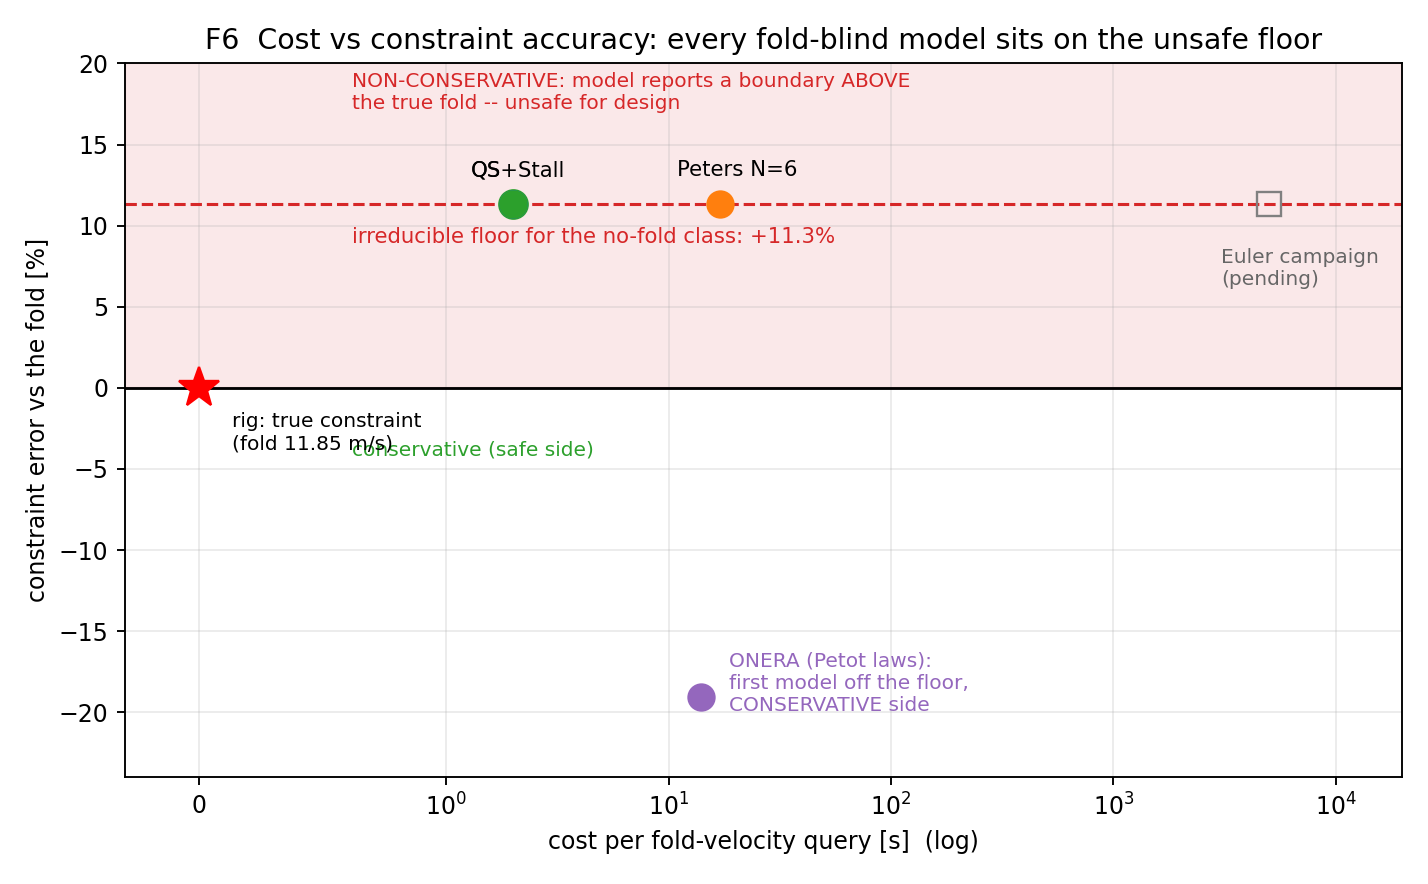
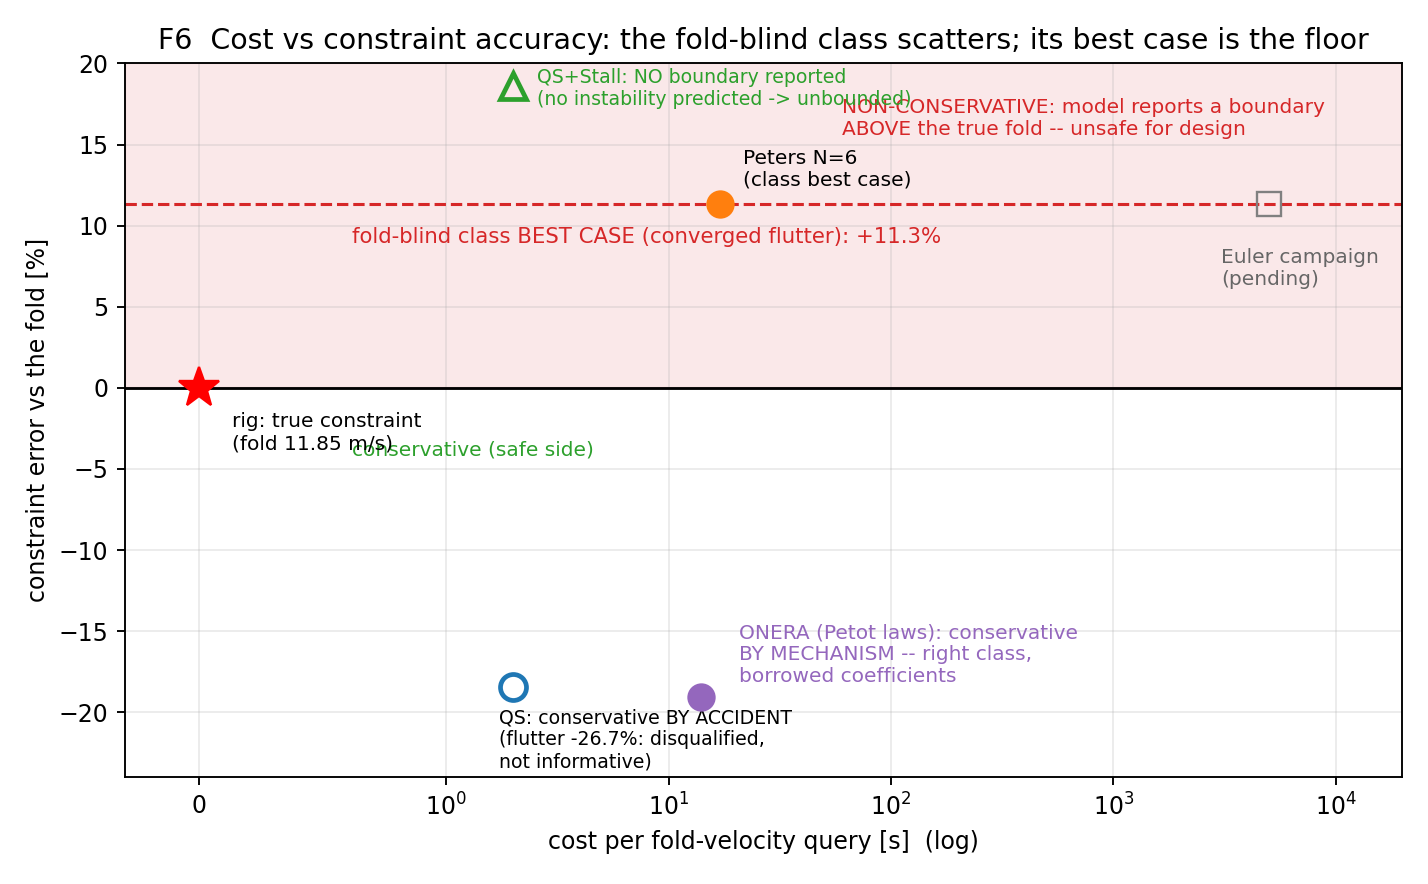
T1 Figures added

diff --git a/examples/build_paper_figures.py b/examples/build_paper_figures.py
@@ -126,7 +126,7 @@ def f5_polar():
 # fold hands the designer its Hopf, hence +10.95% into the unsafe region.
 ROWS = [
     # model, class, U_flutter, fold?, U_fold_reported, cost/query s, executed
-    ("QS", "inviscid-attached", 9.665, False, 13.148, 2.0, True),
+    ("QS", "inviscid-attached", 9.665, False, 9.665, 2.0, True),
     ("Peters N=6", "inviscid-attached", 13.148, False, 13.148, 17.0, True),
     ("QS+Stall", "viscous-static", None, False, None, 2.0, True),
     ("ONERA (Petot laws)", "viscous-dynamic", 10.875, True, 9.594, 14.0, True),
@@ -156,6 +156,14 @@ def t1_matrix():
         f.write("|" + "---|" * len(hdr) + "\n")
         for r in lines:
             f.write("| " + " | ".join(r) + " |\n")
+    with open(f"{OUT}/T1_results_matrix.md", "a") as f:
+        f.write("\n*QS reports its own flutter (9.665) as the boundary -- "
+                "below the true fold, conservative only by accident of a "
+                "-26.7% flutter error. QS+Stall predicts no instability at "
+                "any airspeed: its reported boundary is unbounded -- "
+                "qualitatively the least conservative entry if trusted. The "
+                "+10.95% floor is the fold-blind class's best case, attained "
+                "at converged flutter (Peters).*\n")
     print("T1 -> results/T1_results_matrix.csv + .md")
 
 
@@ -163,26 +171,30 @@ def f6_frontier():
     fig, ax = plt.subplots(figsize=(8.4, 5.2))
     ax.axhspan(0, 20, color="tab:red", alpha=0.10)
     ax.axhline(0, color="k", lw=1.2)
-    ax.text(0.62, 17.2, "NON-CONSERVATIVE: model reports a boundary ABOVE\n"
-            "the true fold -- unsafe for design", fontsize=8.5, color="tab:red")
+    ax.text(60, 15.6, "NON-CONSERVATIVE: model reports a boundary\n"
+            "ABOVE the true fold -- unsafe for design", fontsize=8.5, color="tab:red")
     ax.text(0.62, -4.2, "conservative (safe side)", fontsize=8.5,
             color="tab:green")
     floor = 100 * (RIG_FLUTTER - RIG_FOLD) / RIG_FOLD
     ax.axhline(floor, color="tab:red", ls="--", lw=1.3)
-    ax.text(0.62, floor - 2.4, f"irreducible floor for the no-fold class: "
-            f"+{floor:.1f}%", fontsize=9, color="tab:red")
-    pts = [("QS", 2.0, floor, "tab:blue"),
-           ("Peters N=6", 17.0, floor, "tab:orange"),
-           ("QS+Stall", 2.0, floor, "tab:green")]
-    for name, cost, err, col in pts:
-        ax.plot(cost, err, "o", ms=11, color=col, zorder=5)
-        ax.annotate(name, (cost, err), textcoords="offset points",
-                    xytext=(-18, 12), fontsize=9)
-    ax.plot(2.0, floor, "o", ms=11, mfc="none", mec="tab:green", mew=2)
+    ax.text(0.62, floor - 2.4, f"fold-blind class BEST CASE (converged "
+            f"flutter): +{floor:.1f}%", fontsize=9, color="tab:red")
+    ax.plot(17.0, floor, "o", ms=11, color="tab:orange", zorder=5)
+    ax.annotate("Peters N=6\n(class best case)", (17.0, floor),
+                textcoords="offset points", xytext=(10, 8), fontsize=8.5)
+    ax.plot(2.0, -18.44, "o", ms=11, mfc="none", mec="tab:blue", mew=2,
+            zorder=5)
+    ax.annotate("QS: conservative BY ACCIDENT\n(flutter -26.7%: disqualified,"
+                "\nnot informative)", (2.0, -18.44),
+                textcoords="offset points", xytext=(-6, -34), fontsize=8)
+    ax.plot(2.0, 18.6, "^", ms=11, mfc="none", mec="tab:green", mew=2,
+            zorder=5)
+    ax.annotate("QS+Stall: NO boundary reported\n(no instability predicted"
+                " -> unbounded)", (2.0, 18.6), textcoords="offset points",
+                xytext=(10, -8), fontsize=8, color="tab:green")
     ax.plot(14.0, -19.04, "o", ms=11, color="tab:purple", zorder=5)
-    ax.annotate("ONERA (Petot laws):\nfirst model off the floor,\n"
-                "CONSERVATIVE side", (14.0, -19.04),
-                textcoords="offset points", xytext=(12, -6),
+    ax.annotate("ONERA (Petot laws): conservative\nBY MECHANISM -- right class,\nborrowed coefficients", (14.0, -19.04),
+                textcoords="offset points", xytext=(16, 6),
                 fontsize=8.5, color="tab:purple")
     for name, cost in (("Euler campaign", 5000.0),):
         ax.plot(cost, floor, "s", ms=10, mfc="none", mec="0.5", ls="none")
@@ -195,8 +207,8 @@ def f6_frontier():
     ax.set_xscale("symlog", linthresh=1.0)
     ax.set_xlabel("cost per fold-velocity query [s]  (log)")
     ax.set_ylabel("constraint error vs the fold [%]")
-    ax.set_title("F6  Cost vs constraint accuracy: every fold-blind model sits "
-                 "on the unsafe floor")
+    ax.set_title("F6  Cost vs constraint accuracy: the fold-blind class scatters; "
+                 "its best case is the floor")
     ax.grid(alpha=0.25); ax.set_ylim(-24, 20); ax.set_xlim(-0.3, 20000)
     plt.tight_layout()
     plt.savefig(f"{OUT}/F6_frontier.png", dpi=170)

diff --git a/results/T1_results_matrix.md b/results/T1_results_matrix.md
@@ -1,9 +1,11 @@
 | model | class | U_flutter [m/s] | err vs 13.19 [%] | fold? | U_constraint [m/s] | err vs 11.85 [%] | cost/query [s] | status |
 |---|---|---|---|---|---|---|---|---|
-| QS | inviscid-attached | 9.665 | -26.72 | no | 13.148 | +10.95 | 2 | executed |
+| QS | inviscid-attached | 9.665 | -26.72 | no | 9.665 | -18.44 | 2 | executed |
 | Peters N=6 | inviscid-attached | 13.148 | -0.32 | no | 13.148 | +10.95 | 17 | executed |
 | QS+Stall | viscous-static | none | -- | no | none | -- | 2 | executed |
 | ONERA (Petot laws) | viscous-dynamic | 10.875 | -17.55 | yes | 9.594 | -19.04 | 14 | executed |
 | UVLM | inviscid-attached | none | -- | -- | none | -- | est. | pending/positioned |
 | Euler (steady) | inviscid ceiling | none | -- | -- | none | -- | est. | pending/positioned |
 | rig (experiment) | -- | 13.19 | -- | yes | 11.85 | 0.00 | -- | reference |
+
+*QS reports its own flutter (9.665) as the boundary -- below the true fold, conservative only by accident of a -26.7% flutter error. QS+Stall predicts no instability at any airspeed: its reported boundary is unbounded -- qualitatively the least conservative entry if trusted. The +10.95% floor is the fold-blind class's best case, attained at converged flutter (Peters).*
